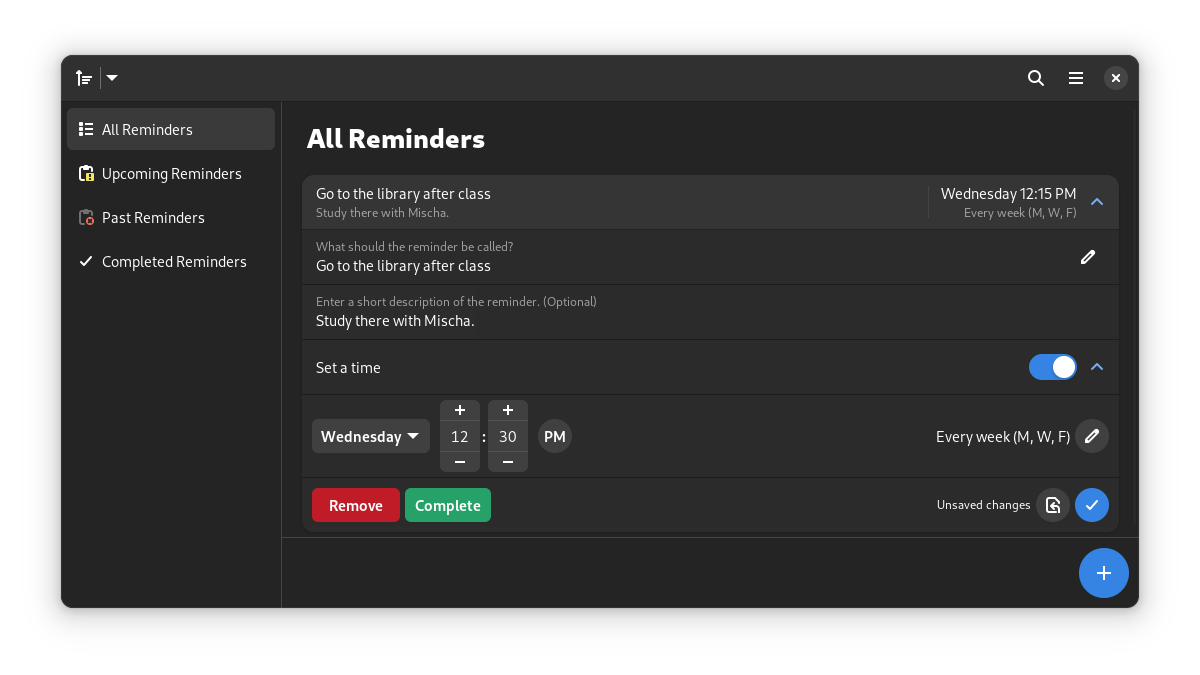
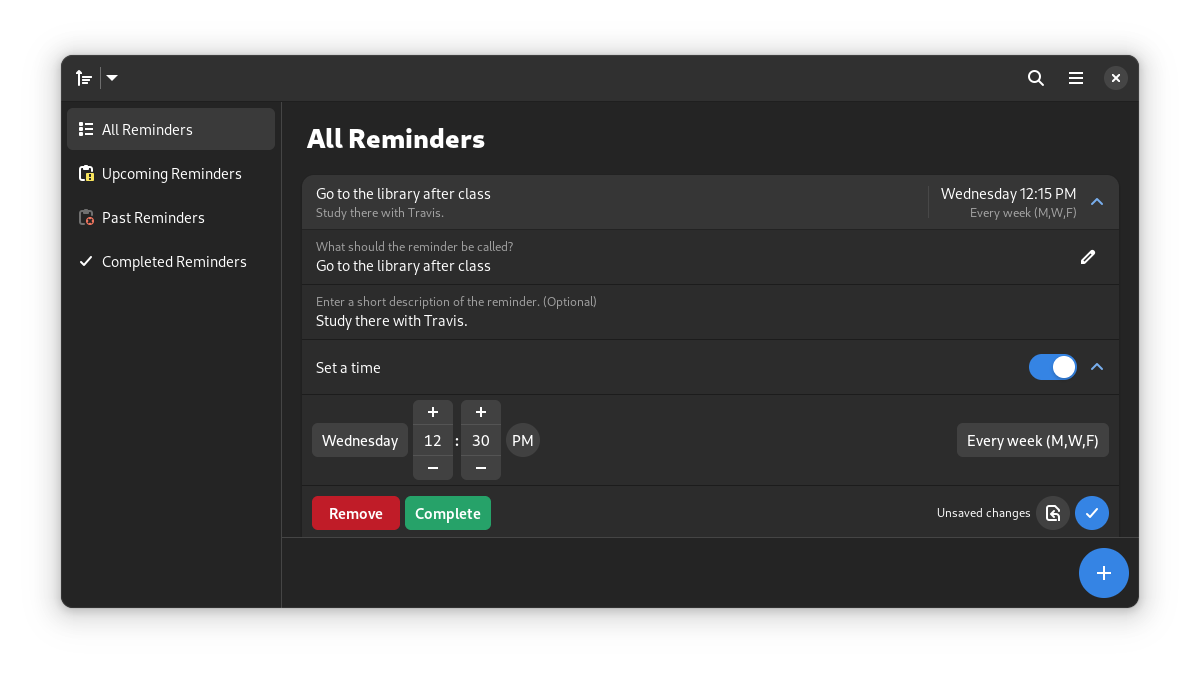
More improvements to mobile layout

diff --git a/src/browser/resources/stylesheet.css b/src/browser/resources/stylesheet.css
@@ -31,13 +31,10 @@ label.time {
     margin: 0 2px;
 }
 
-spinbutton.time entry {
-    font-weight: bold;
-}
-
-spinbutton.time button {
-    padding: 0 5px;
+spinbutton button {
+    padding: 2px;
     min-height: 20px;
+    min-width: 20px;
 }
 
 .add-reminder {
@@ -89,13 +86,21 @@ button.incomplete {
     font-size: 125%;
 }
 
+button.repeat label,
+menubutton button,
+dropdown button,
+.am-pm-button label,
+spinbutton text {
+    font-weight: 500;
+}
+
 box.header > box {
-  margin: 6px 0;
+    margin: 6px 0;
 }
 
 row.header separator {
-  opacity: 0.5;
-  margin: 3px 0;
+    opacity: 0.6;
+    margin: 3px 0;
 }
 
 /* Elaborate fix for https://gitlab.gnome.org/GNOME/gtk/-/issues/5309 */

diff --git a/src/browser/reminder.py b/src/browser/reminder.py
@@ -461,7 +461,7 @@ class TimeRow(Gtk.ListBoxRow):
     '''Section of reminder for handling times'''
     __gtype_name__ = 'time_row'
 
-    date_button = Gtk.Template.Child()
+    date_label = Gtk.Template.Child()
     calendar = Gtk.Template.Child()
     hour_button = Gtk.Template.Child()
     hour_adjustment = Gtk.Template.Child()
@@ -537,7 +537,7 @@ class TimeRow(Gtk.ListBoxRow):
             else:
                 type_name = str(self.repeat_frequency) + ' ' + _('weeks')
     
-            suffix = f" ({', '.join(days)})"
+            suffix = f" ({','.join(days)})"
         
         if self.repeat_until > 0:
             date = GLib.DateTime.new_from_unix_local(self.repeat_until).format('%x')
@@ -569,11 +569,11 @@ class TimeRow(Gtk.ListBoxRow):
         self.time = self.time.add_seconds(-(seconds))
 
         self.calendar.select_day(self.time)
-        self.date_button.set_label(self.time.format(self.get_date_label()))
+        self.date_label.set_label(self.time.format(self.get_date_label()))
         self.minute_adjustment.set_value(self.time.get_minute())
 
     def update_date_button_label(self):
-        self.date_button.set_label(self.time.format(self.get_date_label()))
+        self.date_label.set_label(self.time.format(self.get_date_label()))
 
     def get_date_label(self, long = False, time = None):
         time = self.time if time is None else time
@@ -644,7 +644,7 @@ class TimeRow(Gtk.ListBoxRow):
 
     def update_calendar(self):
         self.calendar.select_day(self.time)
-        self.date_button.set_label(self.time.format(self.get_date_label()))
+        self.date_label.set_label(self.time.format(self.get_date_label()))
 
     def set_pm(self):
         self.am_pm_button.set_label(_('PM'))
@@ -748,7 +748,7 @@ class TimeRow(Gtk.ListBoxRow):
         self.time = self.time.add_days(days)
         if self.hour_set:
             self.hour_changed()
-        self.date_button.set_label(self.time.format(self.get_date_label()))
+        self.date_label.set_label(self.time.format(self.get_date_label()))
         self.parent_reminder.check_time_saved()
         self.update_repeat_day()
 
@@ -802,6 +802,7 @@ class RepeatDialog(Adw.Window):
     sun_btn = Gtk.Template.Child()
     repeat_times_btn = Gtk.Template.Child()
     repeat_until_btn = Gtk.Template.Child()
+    repeat_until_label = Gtk.Template.Child()
     repeat_times_box = Gtk.Template.Child()
     calendar = Gtk.Template.Child()
     repeat_duration_button = Gtk.Template.Child()
@@ -832,6 +833,9 @@ class RepeatDialog(Adw.Window):
         else:
             self.repeat_times_btn.set_value(5)
             self.repeat_duration_button.set_selected(0)
+
+        if repeat_until != 0:
+            self.calendar.select_day(GLib.DateTime.new_from_unix_local(repeat_until))
 
         self.frequency_btn.set_value(repeat_frequency)
         self.repeat_duration_selected_changed()
@@ -870,7 +874,7 @@ class RepeatDialog(Adw.Window):
                 repeat_until = 0
             elif self.repeat_duration_button.get_selected() == 2:
                 repeat_times = -1
-                repeat_until = self.calendar.get_date().to_unix()
+                repeat_until = datetime.datetime(self.calendar.props.year, self.calendar.props.month + 1, self.calendar.props.day).timestamp()
 
             repeat_days = 0
             for btn, flag in (
@@ -895,7 +899,7 @@ class RepeatDialog(Adw.Window):
 
     @Gtk.Template.Callback()
     def day_changed(self, calendar = None):
-        self.repeat_until_btn.set_label(self.calendar.get_date().format('%d %b %Y'))
+        self.repeat_until_label.set_label(self.calendar.get_date().format('%d %b %Y'))
 
     @Gtk.Template.Callback()
     def repeat_duration_selected_changed(self, button = None, data = None):
